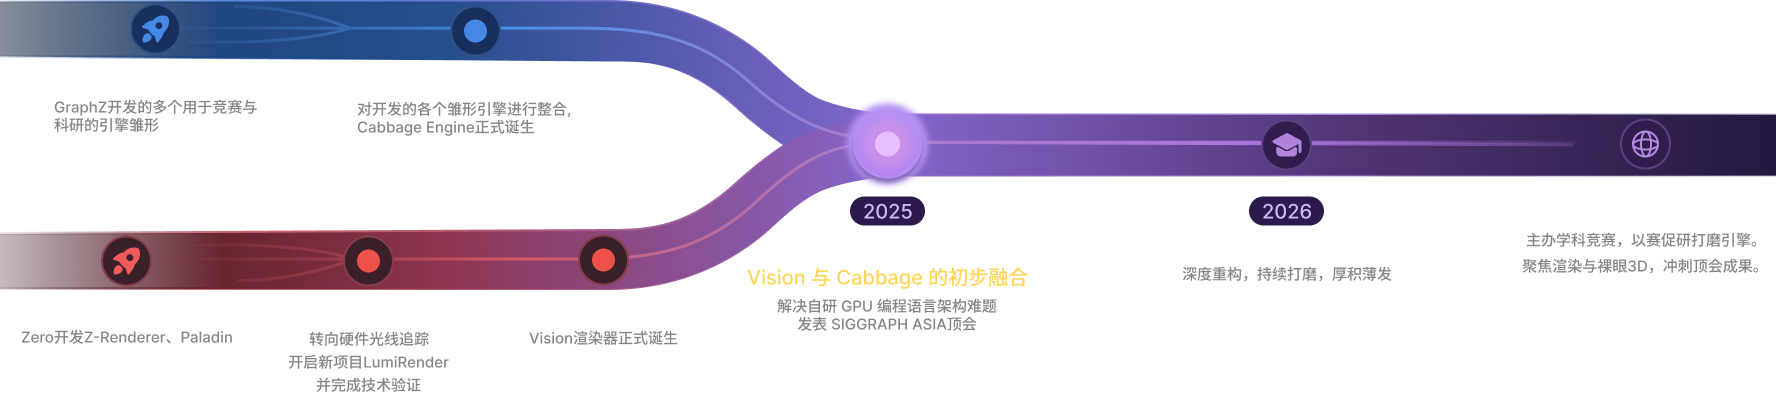
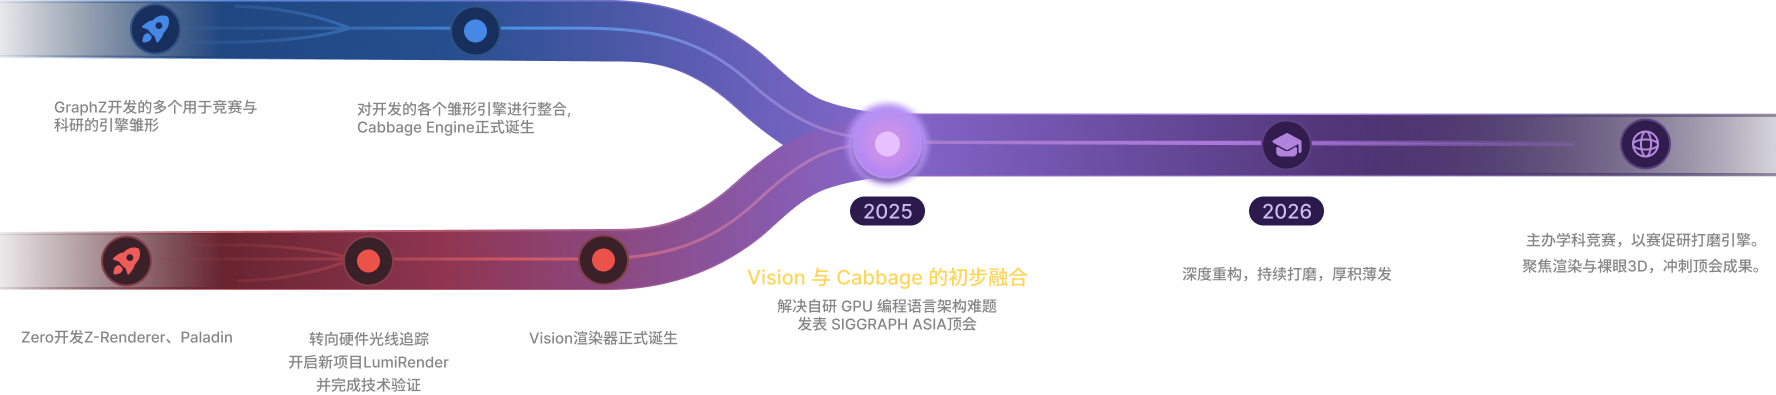
网页样式排版更改

Changed region(s): [[0.8361, 0.2734, 1.0, 0.4557], [0.0, 0.0, 0.0929, 0.1519], [0.0, 0.5772, 0.0619, 0.7291]]

diff --git a/js/main.js b/js/main.js
@@ -1,10 +1,10 @@
-// ================= 团队数据配置中心 =================
+// ================= 团队数据配置中心 =================
 // avatar: 头像图片地址。如果留空 ("")，则显示默认的图标占位符
 // link: 点击头像跳转的链接。如果留空，默认为 "#"
 
 const founders = [
+    {n: "范洪辉", r: "联合创始人", tags: ["教授", "博士","硕士研究生导师"], b: "江苏理工学院教授、博士、硕士生导师，十四五计算机科学与技术省重点学科带头人，软件工程国家一流专业负责人，面向对象程序设计国家一流课程负责人。主要研究方向为图形图像处理、机器学习，主持国家级科研项目 10 余项，发表 SCI/EI 论文 100 余篇。", avatar: "images/Fan.jpg", link: "https://baike.baidu.com/item/%E8%8C%83%E6%B4%AA%E8%BE%89/63345374"},
     {n: "Zero", r: "联合创始人", tags: ["前网易/D5资深工程师", "即将任硕导", "10项顶会/专利"], b: "资深图形引擎工程师。专注全局光照与嵌入式DSL优化，曾为《阴阳师》等国内S级顶流商业项目提供核心引擎技术支持，具备深厚的前沿技术工程化落地经验。", exp: "曾任职于 <b>D5渲染器、欢聚时代、网易、多益</b> 等头部企业。<br><br>网易期间为 <b>《阴阳师》《哈利波特：魔法觉醒》</b> 等项目提供引擎技术支持。<br><br>多益期间于 <b>《神武》</b> 项目组担任核心开发。", tech: "专注于 <b>全局光照 (GI)</b>、<b>嵌入式 DSL</b> 及 <b>工具链优化</b> 等底层方向。<br><br>对前沿技术的工业级、工程化落地具有丰富的实践积累。", ach: "累计发表/产出 <b>发明专利与顶级会议论文 10 项</b>。", avatar: "images/Zero.png", link: "https://github.com/FaithZL", detail: true},
-    {n: "范洪辉", r: "联合创始人", tags: ["教授", "博士","硕士研究生导师"], b: "江苏理工学院教授、博士、硕士生导师，“十四五”计算机科学与技术省重点学科带头人，软件工程国家一流专业负责人，面向对象程序设计国家一流课程负责人。主要研究方向为图形图形处理、机器学习，主持国家重点研发计划子课题、国家自然科学基金、省科技计划项目等科研项目十余项，公开发表SCI/EI论文100余篇。", avatar: "images/Fan.jpg", link: "https://baike.baidu.com/item/%E8%8C%83%E6%B4%AA%E8%BE%89/63345374"},
     {n: "邹刘磊", r: "联合创始人", tags: ["某初创公司CTO", "硕士研究生导师(校外)"], b: "某初创公司CTO，曾于D5渲染器担任图形引擎工程师，曾于网易游戏、阿里巴巴担任游戏引擎工程师。曾担任第十届、第十一届\"数媒竞赛\"（A类竞赛）国赛决赛评委。指导学生获\"大创项目\"省级/国家级3项。研究兴趣集中在计算机图形学、计算成像、计算机视觉，对全局光照、渲染后处理、光场显示等课题较为熟悉，公开发明论文/学术专利20余项。", avatar: "images/GraphZ.jpg", link: "https://github.com/GraphZou"}
 ];
 
@@ -68,65 +68,26 @@ function initSceneAccordion() {
 }
 
 function renderTeam() {
-    // 1. 渲染联合创始人
-    const foundersContainer = document.getElementById('foundersContainer');
-    if (foundersContainer) {
-        foundersContainer.innerHTML = founders.map((f, idx) => `
-            <div class="member-card founder-card">
-                <div class="profile-header">
-                    <a href="${f.link || '#'}" target="${f.link && f.link !== '#' ? '_blank' : '_self'}" class="avatar-link">
-                        ${f.avatar ? `<img src="${f.avatar}" class="avatar" alt="${f.n}">` : `<div class="avatar-placeholder"><i class="fas fa-user-tie"></i></div>`}
-                    </a>
-                    <div class="name-info">
-                        <div class="name-title-row">
-                            <h3>${f.n}</h3><span class="role-text">${f.r}</span>
-                        </div>
-                        <div class="tag-container">
-                            ${f.tags.map(t => `<span class="tag">${t}</span>`).join('')}
-                        </div>
-                    </div>
-                </div>
-                <p class="bio">${f.b}</p>
-                ${f.detail ? `<span class="card-detail-link" onclick="event.stopPropagation();openFounderDetail(${idx})">查看详情 <i class="fas fa-arrow-right"></i></span>` : ''}
-            </div>
-        `).join('');
-    }
+    const creditsContainer = document.getElementById('creditsContainer');
+    if (!creditsContainer) return;
 
-    // 2. 渲染核心成员
-    const coreMembersContainer = document.getElementById('coreMembersContainer');
-    if (coreMembersContainer) {
-        coreMembersContainer.innerHTML = coreMembers.map((m, idx) => `
-            <div class="core-member-card">
-                <div class="profile-header">
-                    <a href="${m.link || '#'}" target="${m.link && m.link !== '#' ? '_blank' : '_self'}" class="avatar-link">
-                        ${m.avatar ? `<img src="${m.avatar}" class="avatar" alt="${m.n}">` : `<div class="avatar-placeholder"><i class="fas fa-user-astronaut"></i></div>`}
-                    </a>
-                    <div class="name-info">
-                        <div class="name-title-row"><h3>${m.n}</h3><span class="role-text">${m.r}</span></div>
-                    </div>
-                </div>
-                <p class="bio">${m.b}</p>
-                <span class="card-detail-link" onclick="event.stopPropagation();openCoreDetail(${idx})">查看详情 <i class="fas fa-arrow-right"></i></span>
-            </div>
-        `).join('');
-    }
+    const groups = [
+        { label: '创始人', items: founders.map(f => ({ role: f.r, name: f.n })) },
+        { label: '架构组', items: coreMembers.map(m => ({ role: m.r, name: m.n })) },
+        { label: '开发组', items: scrollingMembers.map(m => ({ role: m.r, name: m.n })) }
+    ];
 
-    // 3. 渲染跑马灯成员
-    const marqueeTrack = document.getElementById('marqueeTrack');
-    if (marqueeTrack) {
-        const baseCards = scrollingMembers.map(m => `
-            <div class="scrolling-card">
-                <div class="profile-header">
-                    <a href="${m.link || '#'}" target="${m.link && m.link !== '#' ? '_blank' : '_self'}" class="avatar-link" style="text-decoration:none;">
-                        ${m.avatar ? `<img src="${m.avatar}" class="avatar" alt="${m.n}">` : `<div class="avatar-placeholder"><i class="fas fa-ghost"></i></div>`}
-                    </a>
-                    <div class="name-info"><div class="name-title-row"><h3>${m.n}</h3></div><span class="role-text">${m.r}</span></div>
+    creditsContainer.innerHTML = groups.map(g => `
+        <div class="credits-group">
+            <h4>${g.label}</h4>
+            ${g.items.map(p => `
+                <div class="credits-row">
+                    <span class="credits-role">${p.role}</span>
+                    <span class="credits-name">${p.name}</span>
                 </div>
-                <p class="bio" style="margin:0;">${m.b}</p>
-            </div>
-        `).join('');
-        marqueeTrack.innerHTML = baseCards + baseCards;
-    }
+            `).join('')}
+        </div>
+    `).join('');
 }
 
 // ================= 页脚联系方式：单击复制到剪贴板 =================

diff --git a/index.html b/index.html
@@ -20,6 +20,16 @@
         .timeline-wrap { width: 100%; max-width: 90vw; margin: 40px auto 80px auto; }
         .timeline-wrap img { width: 100%; display: block; }
 
+        /* 核心团队 — 电影谢幕风格 */
+        .credits-container { max-width: 1100px; margin: 0 auto; }
+        .credits-group { margin-bottom: 40px; }
+        .credits-group h4 { font-size: 1.25rem; font-weight: 700; letter-spacing: 2px; text-transform: uppercase; color: rgba(255,255,255,0.70); margin: 40px 0 16px; text-align: center; }
+        .credits-row { display: flex; justify-content: center; gap: 60px; padding: 4px 0; }
+        .credits-row .credits-role { width: 250px; text-align: right; font-size: 1.125rem; color: rgba(255,255,255,0.48); white-space: nowrap; flex-shrink: 0; }
+        .credits-row .credits-name { width: 250px; text-align: left; font-size: 1.125rem; color: #fff; font-weight: 700; white-space: nowrap; flex-shrink: 0; }
+        .credits-row .credits-role { text-align: right; font-size: 1.125rem; color: rgba(255,255,255,0.48); white-space: nowrap; }
+        .credits-row .credits-name { text-align: left; font-size: 1.125rem; color: #fff; font-weight: 700; white-space: nowrap; }
+
         /* ===== 标题字母悬停弹跳 ===== */
         .title-interactive {
             display: inline-flex; flex-wrap: wrap; justify-content: center;
@@ -464,7 +474,7 @@
         <a class="nav-item active" onclick="goToSlide(0)">首页</a>
         <a class="nav-item" onclick="goToSlide(1)">关于我们</a>
         <a class="nav-item" onclick="goToSlide(2)">学术研究</a>
-        <a class="nav-item" href="javascript:void(0)">游戏开发</a>
+        <!-- <a class="nav-item" href="javascript:void(0)">游戏开发</a> -->
         <a class="nav-item" onclick="goToSlide(3)">相关竞赛</a>
     </div>
 </nav>
@@ -687,11 +697,7 @@
                     <div class="section-heading">
                         <h2>核心团队</h2>
                     </div>
-                    <div class="founders-row" id="foundersContainer"></div>
-                    <div class="core-members-grid" id="coreMembersContainer"></div>
-                    <div class="marquee-container">
-                        <div class="marquee-track" id="marqueeTrack"></div>
-                    </div>
+                    <div class="credits-container" id="creditsContainer"></div>
                 </div>
 
                 </div>
